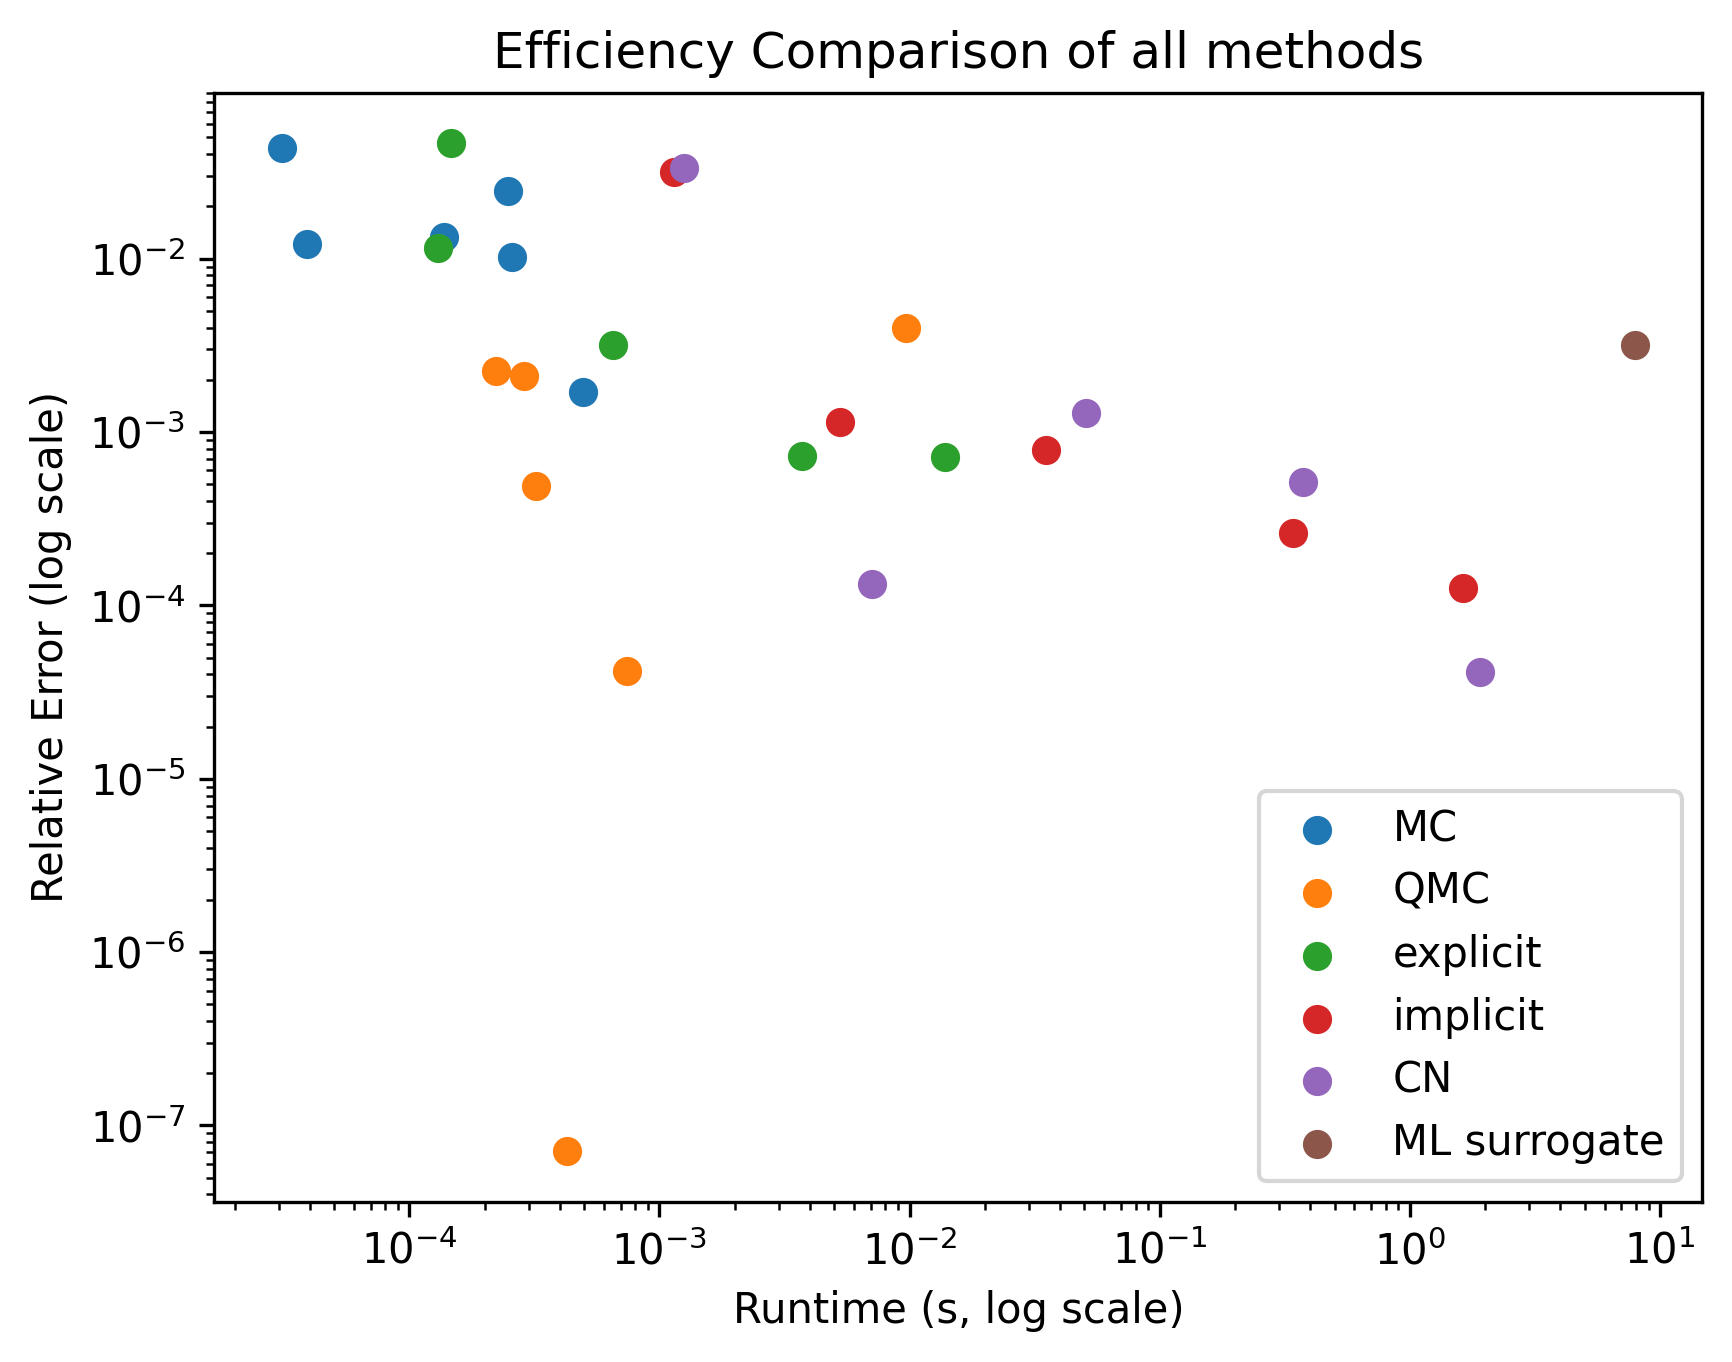
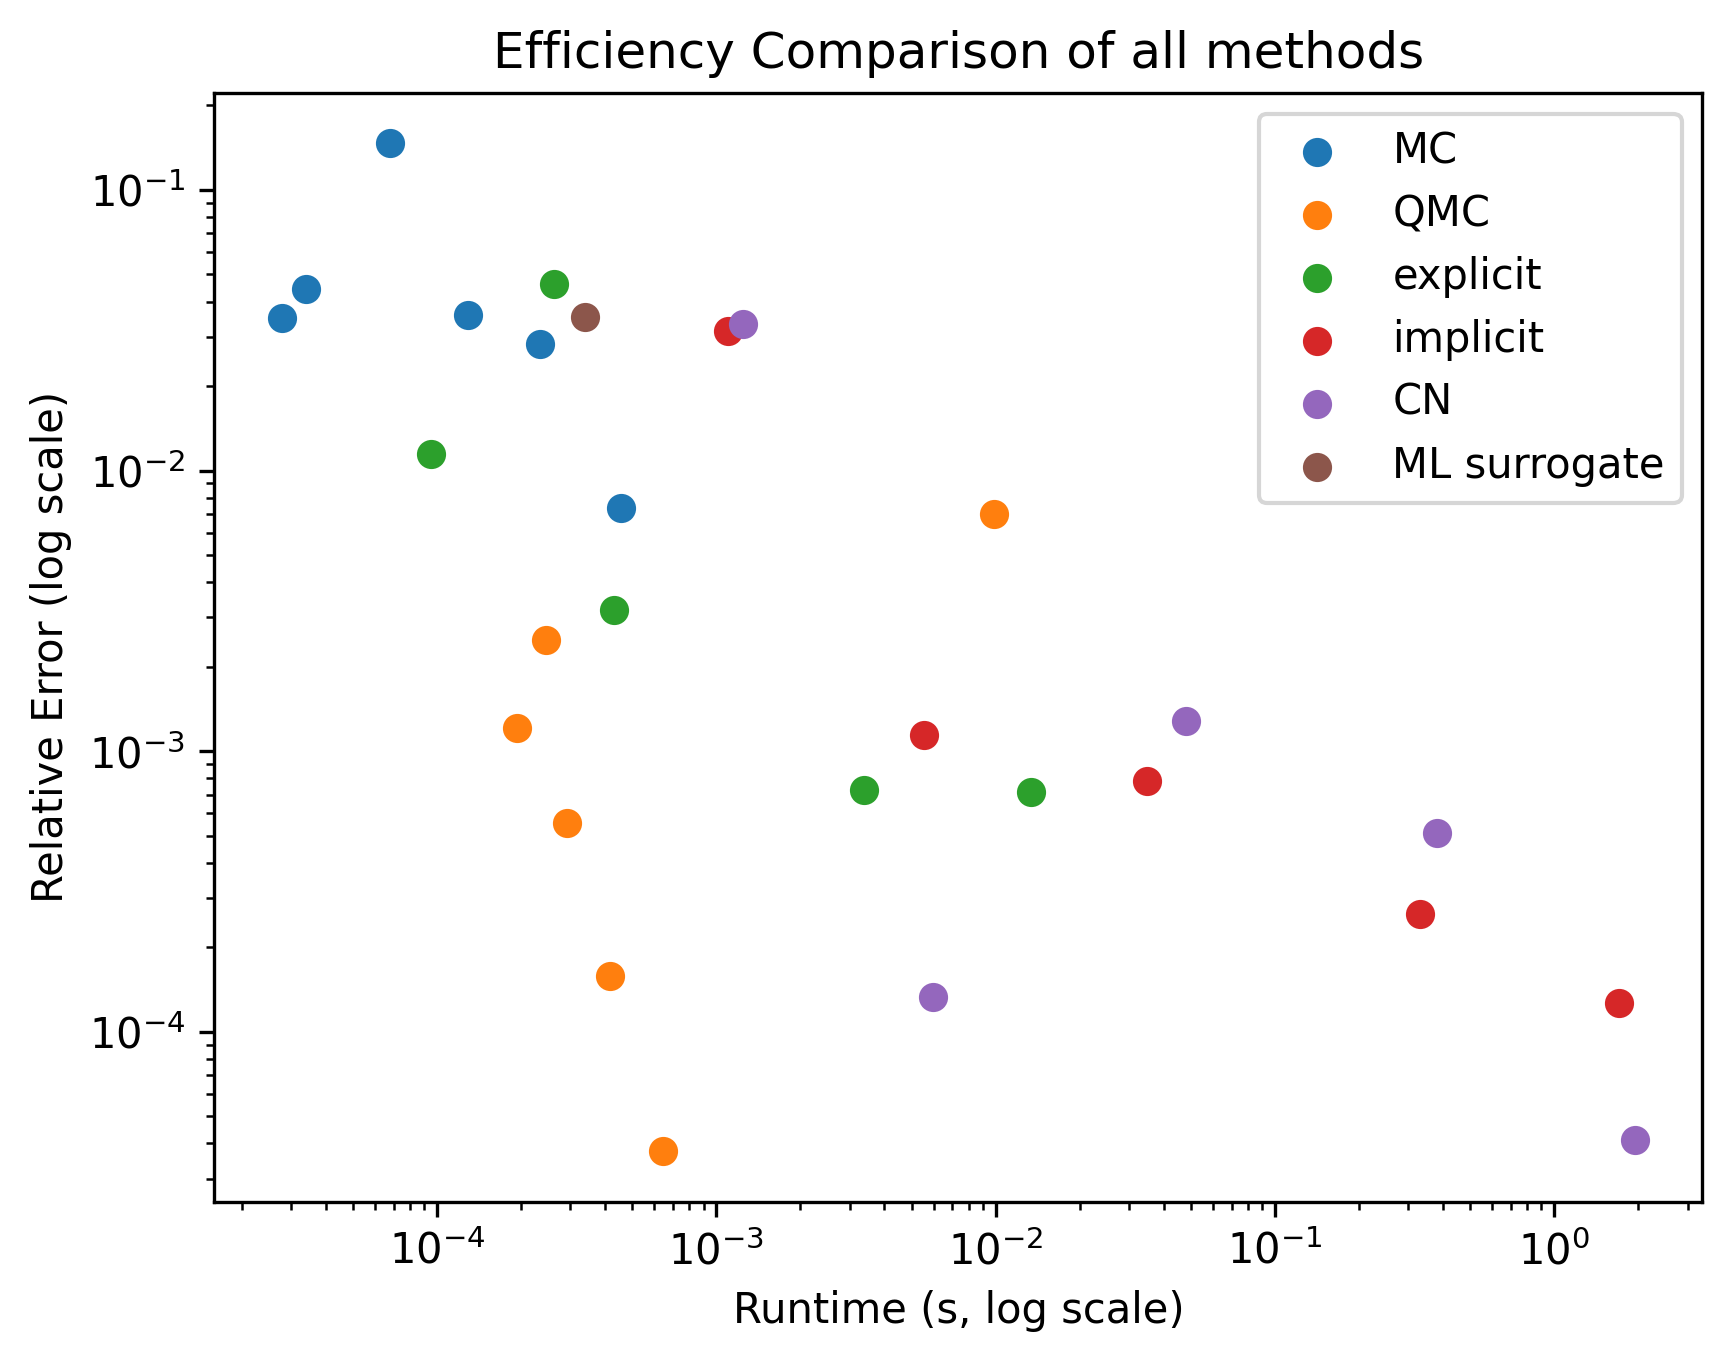
Fixed running time recording logic error

diff --git a/src/evaluation.py b/src/evaluation.py
@@ -72,11 +72,11 @@ def evaluate_methods(
             })
 
     # Surrogate Model
-    nn_start = time.time()
     model, x_scaler, y_scaler = train_surrogate(n_epochs=100, plot=True)
     x = np.array([[S0, K, T, r, sigma]])
     x_scaled = x_scaler.transform(x)
     x_tensor = torch.tensor(x_scaled, dtype=torch.float32)
+    nn_start = time.time()
     with torch.no_grad():
         pred_scaled = model(x_tensor).numpy()
         pred = y_scaler.inverse_transform(pred_scaled)[0, 0]

diff --git a/README.md b/README.md
@@ -87,25 +87,27 @@ All results are stored in the `results/` folder:
 * `evaluation_results.csv` - Benchmark convergence/runtime data.
 
 ## Results
-### Monte Carlo vs Quasi-Monte Carlo
-* **MC**: Converges at the theoretical rate $O(1/\sqrt{N})$.
-* **QMC (Sobol)**: Consistently more accurate at the same sample size; variance reduced substantially.
-* *Observation:* For small $N$, QMC outperforms MC by more than an order of magnitude in error.
+The project benchmarks analytical, simulation, PDE, and ML approaches for European call option pricing.
 
-### Finite Difference Methods
-* **Explicit**: Stable only under CFL condition; error decreases slowly, consistent with first-order accuracy.
-* **Implicit**: Unconditionally stable, also first-order accurate; produced values very close to analytic Black-Scholes at moderate grids.
-* **Crank-Nicolson**: Achieved second-order convergence as grid resolution increased; ultimately the most accurate FD scheme.
-* *Observation:* At coarse grids implicit sometimes matched Black-Scholes better (due to error cancellation), but CN dominated as resolution refined.
+### Monte Carlo vs Quasi–Monte Carlo
+* MC: Converges at the theoretical $O(1/\sqrt{N})$ rate; suffers from high variance.
+* QMC (Sobol): Substantially more accurate than MC at the same sample size, reducing variance by more than an order of magnitude for small $N$.
+* Key finding: QMC consistently delivered the highest accuracy among stochastic simulation methods.
+
+### Finite Difference (FD) Methods
+* Explicit: Conditionally stable; slow convergence; consistent with first-order accuracy.
+* Implicit: Unconditionally stable, with results often close to Black–Scholes at moderate grids.
+* Crank–Nicolson (CN): Achieved second-order convergence and was the most accurate PDE scheme at refined grids.
+* Observation: At coarse grids, implicit sometimes matched Black–Scholes better due to error cancellation, but CN dominated at higher resolution.
 
 ### Machine Learning Surrogate
-* Neural Network surrogate trained on QMC dataset generalised well.
-* Achieved very low relative error (<0.5%) compared to Black-Scholes.
-* **Key advantage**: Once trained, inference time is effectively instantaneous, making it suitable for large-scale or real-time pricing.
+* Neural network surrogate trained on QMC-generated data, achieving <0.5% relative error compared to Black–Scholes.
+* Strength: Once trained, inference is effectively instantaneous, making it suitable for real-time or large-scale option pricing.
+* Trade-off: Training required more time than simulation, but runtime efficiency surpassed all other methods once deployed.
 
 ### Efficiency Comparison
-* **MC**: Slowest convergence, high variance.
-* **QMC**: Faster convergence, competitive runtime.
-* **FD**: Much faster than simulation, especially CN at fine grids.
-* **ML Surrogate**: Initial training cost, but then outperforms all other methods in runtime.
-* *Efficiency Frontier:* Surrogate + CN form the most practical approaches depending on whether training is pre-computed.
+* MC: Slowest convergence and highest variance.
+* QMC: Faster convergence with competitive runtimes.
+* FD: More efficient than simulations, especially Crank–Nicolson on fine grids.
+* ML Surrogate: Highest upfront training cost, but inference is fastest in production.
+* Efficiency Frontier: A combination of Surrogate + CN offers the best practical trade-off depending on whether training is precomputed.
